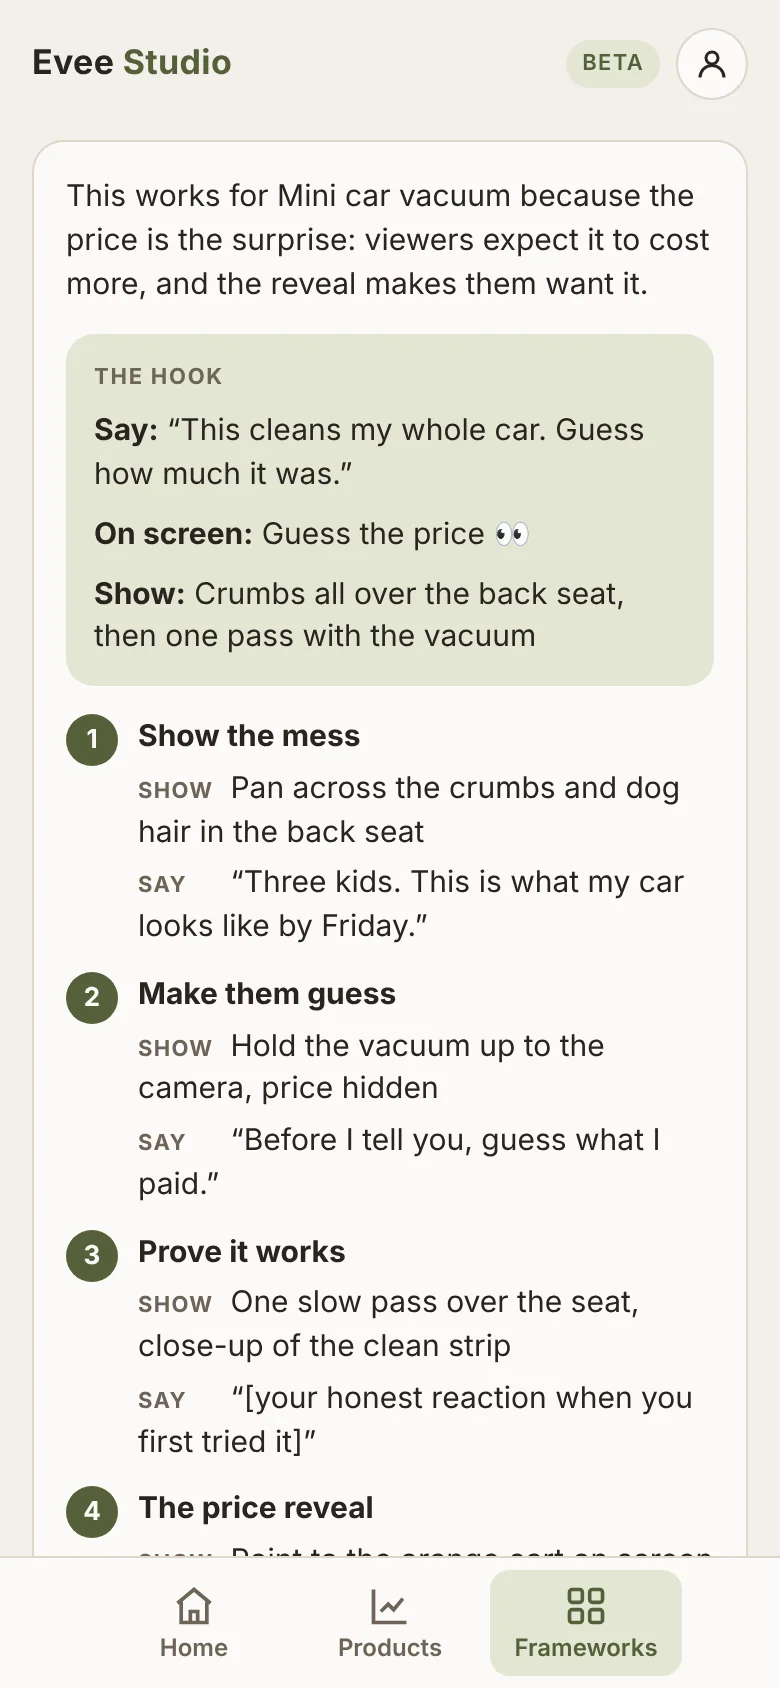
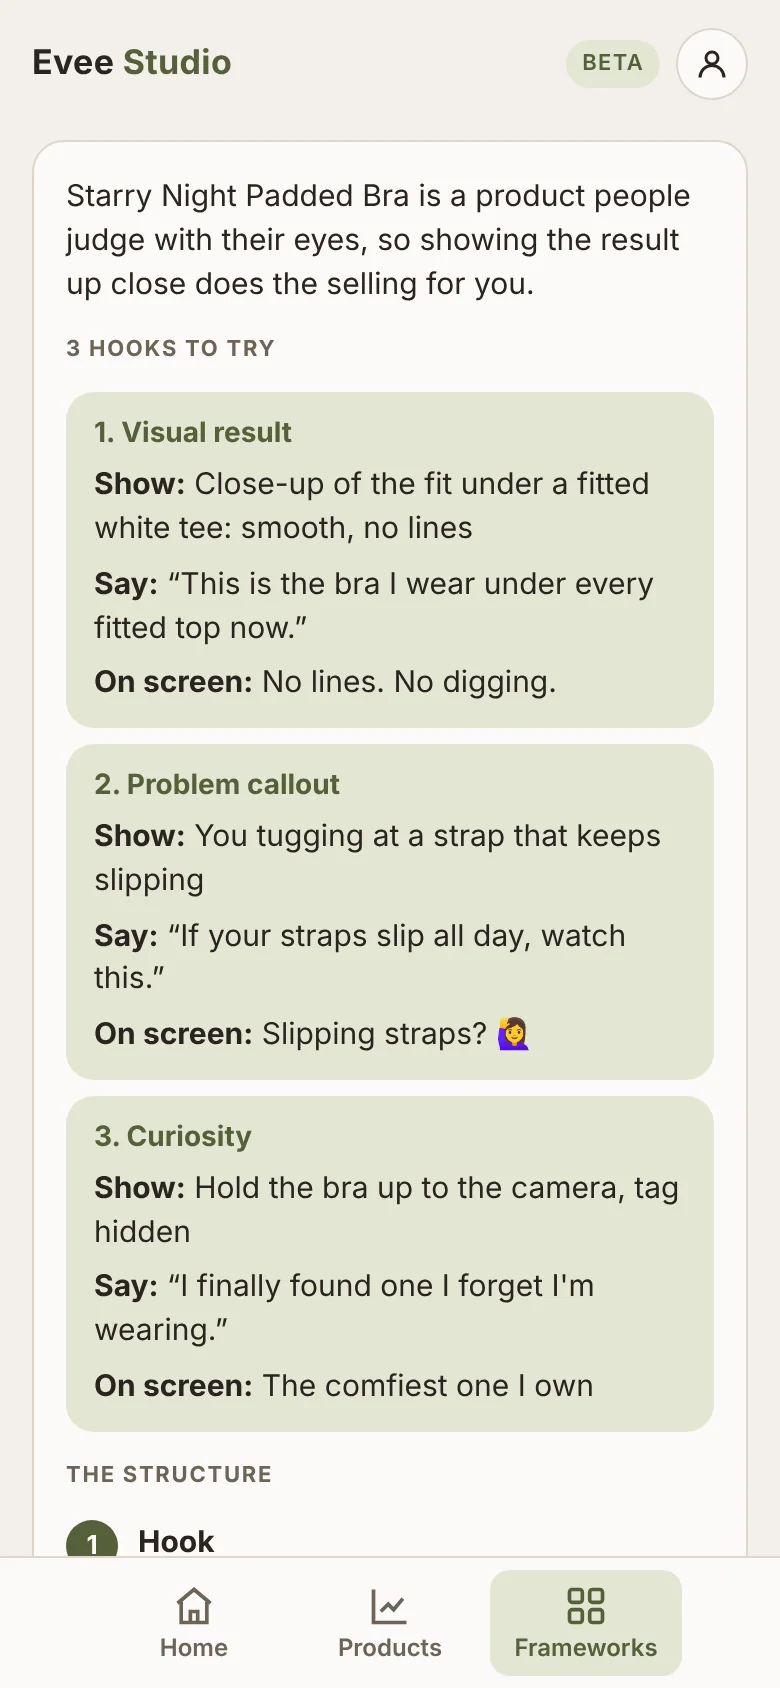
Framework walkthroughs: 3 hook ideas per product plus talking points (not a script) with why each step works
Claude-Session: https://claude.ai/code/session_01Wjo45HNrghsWfMtY8bf2uq

diff --git a/app/margo/app.js b/app/margo/app.js
@@ -424,7 +424,7 @@ export function mount(root, { supabase, email, billing = false }) {
   }
 
   /* ================= SEE IT WITH MY PRODUCT ================= */
-  const tlKey = () => { const p = S.tl.product; return [S.tl.fw, norm(p.name), String(p.price || "").trim(), norm(p.audience)].join("|"); };
+  const tlKey = () => { const p = S.tl.product; return ["v2", S.tl.fw, norm(p.name), String(p.price || "").trim(), norm(p.audience)].join("|"); };
   function tailorView() {
     const f = FW[S.tl.fw]; if (!f) return frameworks();
     const p = S.tl.product, res = S.tlCache[tlKey()];
@@ -443,11 +443,13 @@ export function mount(root, { supabase, email, billing = false }) {
       ${busyIs("tailor") ? `<section>${busyCard()}</section>` : errBox()}
       ${res && !busyIs("tailor") ? `<section><div class="card tl">
         ${res.fit ? `<p class="fit">${esc(res.fit)}</p>` : ""}
-        <div class="hookbox"><span class="label">The hook</span>
-          ${res.hook?.say ? `<p><b>Say:</b> “${esc(res.hook.say)}”</p>` : ""}${res.hook?.onScreen ? `<p><b>On screen:</b> ${esc(res.hook.onScreen)}</p>` : ""}${res.hook?.visual ? `<p><b>Show:</b> ${esc(res.hook.visual)}</p>` : ""}</div>
-        <ol class="beats">${arr(res.beats).map((b) => `<li><b>${esc(b.beat || "")}</b>${b.show ? `<p><span class="k">Show</span> ${esc(b.show)}</p>` : ""}${b.say ? `<p><span class="k">Say</span> “${esc(b.say)}”</p>` : ""}</li>`).join("")}</ol>
+        <span class="label">3 hooks to try</span>
+        <div class="hooks">${arr(res.hooks).map((h, i) => `<div class="hookbox"><span class="hstyle">${i + 1}. ${esc(h.style || "Hook")}</span>
+          ${h.visual ? `<p><b>Show:</b> ${esc(h.visual)}</p>` : ""}${h.say ? `<p><b>Say:</b> “${esc(h.say)}”</p>` : ""}${h.onScreen ? `<p><b>On screen:</b> ${esc(h.onScreen)}</p>` : ""}</div>`).join("")}</div>
+        <span class="label">The structure</span>
+        <ol class="beats">${arr(res.beats).map((b) => `<li><b>${esc(b.beat || "")}</b>${b.show ? `<p><span class="k">Show</span> ${esc(b.show)}</p>` : ""}${b.talk ? `<p><span class="k">Talk about</span> ${esc(b.talk)}</p>` : ""}${b.why ? `<p class="bwhy">${esc(b.why)}</p>` : ""}</li>`).join("")}</ol>
         ${res.tip ? `<p class="coachline"><b>Evee’s tip:</b> ${esc(res.tip)}</p>` : ""}
-        <p class="note">Example lines are a starting point. Say them your way, and swap in your real reaction where you see [brackets].</p>
+        <p class="note">These are talking points, not a script. Say it your way, in your own words, so your video sounds like you.</p>
         <div class="btns"><button class="btn ghost small" data-act="tlcopy">Copy</button><button class="btn plain small" data-go="frameworks">Try another framework</button></div>
       </div></section>` : ""}
     </div>`;
@@ -465,8 +467,8 @@ export function mount(root, { supabase, email, billing = false }) {
   }
   function tailorText() {
     const r = S.tlCache[tlKey()], f = FW[S.tl.fw]; if (!r) return "";
-    return [`${f.name} for ${S.tl.product.name}`, r.fit, "", "HOOK", r.hook?.say && `Say: "${r.hook.say}"`, r.hook?.onScreen && `On screen: ${r.hook.onScreen}`, r.hook?.visual && `Show: ${r.hook.visual}`, "",
-      ...arr(r.beats).flatMap((b, i) => [`${i + 1}. ${b.beat || ""}`, b.show && `   Show: ${b.show}`, b.say && `   Say: "${b.say}"`]), "", r.tip && `Tip: ${r.tip}`].filter((x) => x != null && x !== false).join("\n");
+    return [`${f.name} for ${S.tl.product.name}`, r.fit, "", "HOOKS TO TRY", ...arr(r.hooks).flatMap((h, i) => [`${i + 1}. ${h.style || "Hook"}`, h.visual && `   Show: ${h.visual}`, h.say && `   Say: "${h.say}"`, h.onScreen && `   On screen: ${h.onScreen}`]), "", "THE STRUCTURE",
+      ...arr(r.beats).flatMap((b, i) => [`${i + 1}. ${b.beat || ""}`, b.show && `   Show: ${b.show}`, b.talk && `   Talk about: ${b.talk}`]), "", r.tip && `Tip: ${r.tip}`].filter((x) => x != null && x !== false).join("\n");
   }
 
   /* ================= PRODUCTS ================= */

diff --git a/lib/studio.ts b/lib/studio.ts
@@ -24,7 +24,7 @@ export type TailorProduct = { name: string; price: string; audience: string; det
 // "See it with my product": one framework, walked through beat by beat for one product. Short on purpose.
 export function tailorPrompt(fwId: string, p: TailorProduct) {
   const f = FW[fwId];
-  return `You are Evee, a TikTok Shop video coach for affiliate creators. Show a creator how ONE viral framework works for HER product, so it clicks right away. Plain, warm, specific. Short lines she could say out loud.
+  return `You are Evee, a TikTok Shop video coach for affiliate creators. Show a creator how ONE viral framework works for HER product, so the structure clicks right away. You are teaching the structure, not writing a script. Plain, warm, specific.
 
 FRAMEWORK: ${f.name}
 What it is: ${f.oneLiner}
@@ -40,16 +40,14 @@ Details: ${p.details || "none given"}
 
 TASK
 - fit: 1–2 sentences on why this framework suits this product (or, honestly, what to adjust if it's a weaker fit).
-- hook: one example hook, as a trifecta: what she says, the on-screen text, and what the camera shows in the first 2 seconds.
-- beats: one entry per framework beat, in order. For each: the beat's short name, what to SHOW on camera for this product, and one example line to SAY (or null if that beat is visual only).
+- hooks: exactly 3 hook ideas for THIS product, each a different style, chosen to suit the product. Styles to pick from: "Visual result" (show the product's result or the product in use, up close, in the first 2 seconds), "Problem callout" (name the frustration the buyer has), "Curiosity" (a question or tease that makes them stay), "Price surprise", "Before and after", "Reaction". For each: style, what the camera shows in the first 2 seconds (specific to this product, e.g. for a bra: a close-up of how the fit looks under a fitted top), one example line to say, and short on-screen text.
+- beats: one entry per framework beat, in order. These are TALKING POINTS, not a script. For each beat:
+  - beat: the beat's short name
+  - show: exactly what to show on camera for this product
+  - talk: what to talk about here, as an idea in a few words (e.g. "how your car looks by the end of the week"). NEVER a finished sentence or a quote for her to read. Null if the beat is visual only.
+  - why: one short line on why this beat works, so she learns the structure
 - tip: one practical filming tip for this product.
 
-RULES
-- Use only the product facts given. Never invent features, ingredients, results, numbers, reviews, discounts or claims. Use the price exactly as given, or leave price out.
-- Never invent her personal experience. Where her real story or reaction belongs, write a bracketed prompt like [your honest first reaction].
-- No health or medical claims, no fake scarcity, no guarantees, no body-shaming.
-- Example lines are a starting point for her to say in her own words, not an ad.
-
 Reply with only JSON:
-{"fit":"","hook":{"say":"","onScreen":"","visual":""},"beats":[{"beat":"","show":"","say":""}],"tip":""}`;
+{"fit":"","hooks":[{"style":"","visual":"","say":"","onScreen":""}],"beats":[{"beat":"","show":"","talk":"","why":""}],"tip":""}`;
 }

diff --git a/app/api/evee/route.ts b/app/api/evee/route.ts
@@ -50,10 +50,11 @@ export async function POST(req: Request) {
       const p = { name: str(body?.product?.name, 200), price: str(body?.product?.price, 40), audience: str(body?.product?.audience, 400), details: str(body?.product?.details, 1000) };
       if (!p.name) return fail(400, "bad_request", "Add your product first.");
       await spendAllowance(supabase, "tailor");
-      const out: any = await askClaude(tailorPrompt(fw, p), { json: true, maxTokens: 1800, fast: true });
-      const beats = (Array.isArray(out?.beats) ? out.beats : []).filter((b: any) => b && (b.show || b.say)).slice(0, 10);
+      const out: any = await askClaude(tailorPrompt(fw, p), { json: true, maxTokens: 2200, fast: true });
+      const beats = (Array.isArray(out?.beats) ? out.beats : []).filter((b: any) => b && (b.show || b.talk)).slice(0, 10);
+      const hooks = (Array.isArray(out?.hooks) ? out.hooks : []).filter((h: any) => h && (h.visual || h.say)).slice(0, 3);
       if (!beats.length) throw new MargoError("invalid_json", "Evee’s walkthrough came back incomplete. Try again.", 502);
-      return NextResponse.json({ result: { fit: out.fit || "", hook: out.hook || {}, beats, tip: out.tip || "" } });
+      return NextResponse.json({ result: { v: 2, fit: out.fit || "", hooks, beats, tip: out.tip || "" } });
     } catch (e: any) {
       if (e instanceof MargoError) return fail(e.status, e.code, e.message);
       console.error("evee tailor error", e);

diff --git a/app/landing/Landing.tsx b/app/landing/Landing.tsx
@@ -55,11 +55,11 @@ export default function Landing({ foundingLeft, notice }: { foundingLeft: number
         </section>
 
         <section className="lp-feature flip">
-          <figure className="lp-phone small"><img src="/landing/framework.webp" width={390} height={844} loading="lazy" alt="A viral framework laid out for a product: the hook, then numbered steps with what to show and what to say" /></figure>
+          <figure className="lp-phone small"><img src="/landing/framework.webp" width={390} height={844} loading="lazy" alt="A framework laid out for a padded bra: three hook ideas, each with what to show, a line to say and on-screen text" /></figure>
           <div>
             <p className="lp-eyebrow">21 viral frameworks</p>
             <h2>Proven formats, shown for your product</h2>
-            <p className="lp-sub">Study the structures that sell on TikTok Shop, from Price Shock to Problem → Solution. Tap “See it with my product” and Evee lays it out for your product: the hook, what to show and an example line for every step.</p>
+            <p className="lp-sub">Study the structures that sell on TikTok Shop, from Price Shock to Problem → Solution. Tap “See it with my product” and Evee lays it out for your product: three hooks to try, then what to show and what to talk about at every step, in your own words.</p>
           </div>
         </section>
 

diff --git a/app/globals.css b/app/globals.css
@@ -365,3 +365,8 @@ input[type=date]::-webkit-date-and-time-value{text-align:left;margin:0}
 .beats li::before{content:counter(b);position:absolute;left:0;top:0;width:26px;height:26px;border-radius:50%;background:var(--accent);color:var(--on-accent);display:grid;place-items:center;font:700 13px var(--display)}
 .beats p{margin:0;font-size:15px}
 .beats .k{display:inline-block;min-width:42px;font-size:11px;font-weight:700;letter-spacing:.06em;text-transform:uppercase;color:var(--muted)}
+.hooks{display:grid;gap:8px}
+.hooks .hookbox{gap:6px;padding:12px 14px}
+.hstyle{font:700 14px var(--display);color:var(--accent)}
+.beats .k{min-width:0;margin-right:6px}
+.bwhy{font-size:13px!important;color:var(--muted)}
